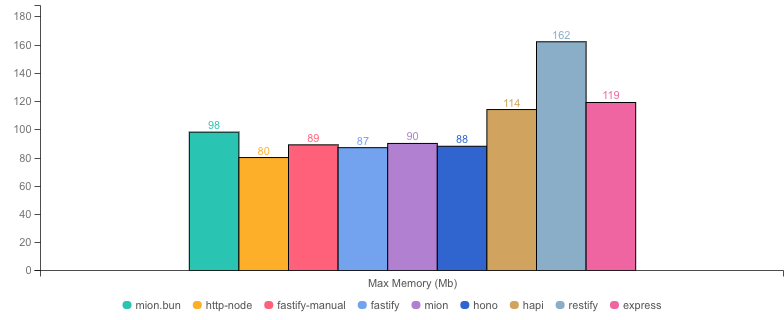
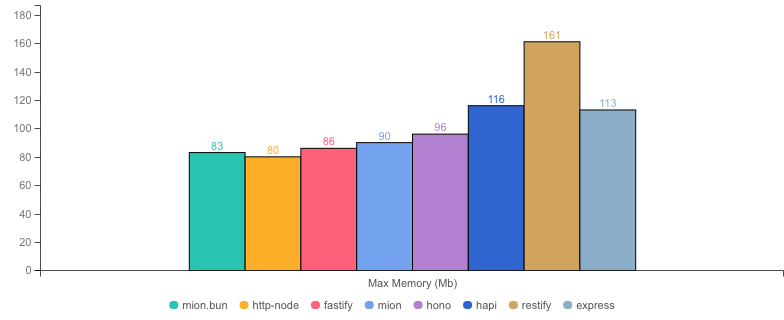
update to latest mion version

diff --git a/lib/packages.js b/lib/packages.js
@@ -70,13 +70,13 @@ const packages = {
     description:
       "Validation using schemas and ajv. schemas are generated manually",
   },
-  "fastify-manual": {
-    hasRouter: true,
-    package: "fastify",
-    validation: "-",
-    version: "3.12.6",
-    description: "manually validated parameters",
-  },
+  // "fastify-manual": {
+  //   hasRouter: true,
+  //   package: "fastify",
+  //   validation: "-",
+  //   version: "3.12.6",
+  //   description: "manually validated parameters",
+  // },
   hapi: {
     hasRouter: true,
     package: "@hapi/hapi",

diff --git a/apps/src/mionAppNode.ts b/apps/src/mionAppNode.ts
@@ -14,10 +14,10 @@ export type Shared = typeof SharedArrayBuffer;
 
 export const mionSayHelloRoute = route((): string => "world");
 
-export const updateUser: Route = route((context, user: User): User => {
+export const updateUser = route((context, user: User): User => {
   user.lastUpdate.setMonth(user.lastUpdate.getMonth() + 1);
   return user;
-});
+}) satisfies Route;
 
 export const routes = {
   hello: mionSayHelloRoute,

diff --git a/README.md b/README.md
@@ -91,8 +91,8 @@ Our goal is to perform similar to fastify as it is the industry standard in term
 
 * __Machine:__ darwin x64 | 8 vCPUs | 16.0GB Mem
 * __Node:__ `v20.11.0`
-* __Run:__ Sun Jan 28 2024 21:52:29 GMT+0000 (Greenwich Mean Time)
-* __Method:__ `autocannon -c 100 -d 40.02 -p 10 localhost:3000` (two rounds; one to warm-up, one to measure)
+* __Run:__ Mon Jan 29 2024 01:48:11 GMT+0000 (Greenwich Mean Time)
+* __Method:__ `autocannon -c 100 -d 40.01 -p 10 localhost:3000` (two rounds; one to warm-up, one to measure)
 
 #### Req (R/s) 
 
@@ -124,14 +124,13 @@ Our goal is to perform similar to fastify as it is the industry standard in term
 
 
 
-|                | Version   | Router | Req (R/s)   | Latency (ms) | Output (Mb/s) | Max Memory (Mb) | Max Cpu (%) | Validation | Description                                                                         |
-| :--            | --:       | --:    | :-:         | --:          | --:           | --:             | --:         | :-:        | :--                                                                                 |
-| http-node      | 16.18.0   | ✗      | 17608.7     | 56.26        | 4.23          | 78              | 120         | ✗          | bare node http server, should be the theoretical upper limit in node.js performance |
-| mion.bun       | 0.6.2     | ✓      | 17162.4     | 57.74        | 3.98          | 123             | 108         | ✓          | mion using bun, automatic validation and serialization                              |
-| fastify        | 4.10.2    | ✓      | 17123.3     | 57.86        | 4.13          | 86              | 119         | -          | Validation using schemas and ajv. schemas are generated manually                    |
-| fastify-manual | 3.12.6    | ✓      | 16168.4     | 61.36        | 3.90          | 86              | 122         | -          | manually validated parameters                                                       |
-| **mion**       | **0.6.2** | **✓**  | **14101.0** | **70.38**    | **3.90**      | **148**         | **142**     | **✓**      | **Automatic validation and serialization out of the box**                           |
-| restify        | 11.1.0    | ✓      | 12669.2     | 78.36        | 3.25          | 131             | 123         | ✗          | manual validation or third party tools                                              |
-| hapi           | 21.3.2    | ✓      | 8794.5      | 113.07       | 2.11          | 104             | 130         | ✗          | validation using joi or third party tools                                           |
-| hono           | 3.12.6    | ✓      | 5820.6      | 170.96       | 1.40          | 125             | 135         | ✗          | hono node server, manual validation or third party tools                            |
-| express        | 4.18.2    | ✓      | 4592.4      | 213.45       | 1.10          | 121             | 128         | ✗          | manual validation or third party tools                                              |
+|           | Version   | Router | Req (R/s)   | Latency (ms) | Output (Mb/s) | Max Memory (Mb) | Max Cpu (%) | Validation | Description                                                                         |
+| :--       | --:       | --:    | :-:         | --:          | --:           | --:             | --:         | :-:        | :--                                                                                 |
+| http-node | 16.18.0   | ✗      | 18296.3     | 54.13        | 4.40          | 80              | 123         | ✗          | bare node http server, should be the theoretical upper limit in node.js performance |
+| mion.bun  | 0.6.2     | ✓      | 17217.6     | 57.55        | 3.99          | 111             | 108         | ✓          | mion using bun, automatic validation and serialization                              |
+| fastify   | 4.10.2    | ✓      | 16735.5     | 59.22        | 4.04          | 87              | 120         | -          | Validation using schemas and ajv. schemas are generated manually                    |
+| **mion**  | **0.6.2** | **✓**  | **13797.0** | **71.92**    | **3.82**      | **142**         | **145**     | **✓**      | **Automatic validation and serialization out of the box**                           |
+| restify   | 11.1.0    | ✓      | 12960.0     | 76.61        | 3.32          | 129             | 121         | ✗          | manual validation or third party tools                                              |
+| hapi      | 21.3.2    | ✓      | 8815.5      | 112.79       | 2.12          | 96              | 131         | ✗          | validation using joi or third party tools                                           |
+| hono      | 3.12.6    | ✓      | 5609.3      | 177.43       | 1.35          | 127             | 136         | ✗          | hono node server, manual validation or third party tools                            |
+| express   | 4.18.2    | ✓      | 4563.9      | 214.79       | 1.10          | 127             | 126         | ✗          | manual validation or third party tools                                              |

diff --git a/HELLO-WORLD.md b/HELLO-WORLD.md
@@ -39,8 +39,8 @@ app.get("/hello", function (req, res) {
 
 * __Machine:__ darwin x64 | 8 vCPUs | 16.0GB Mem
 * __Node:__ `v20.11.0`
-* __Run:__ Sun Jan 28 2024 22:01:54 GMT+0000 (Greenwich Mean Time)
-* __Method:__ `autocannon -c 100 -d 40.21 -p 10 localhost:3000` (two rounds; one to warm-up, one to measure)
+* __Run:__ Mon Jan 29 2024 01:56:33 GMT+0000 (Greenwich Mean Time)
+* __Method:__ `autocannon -c 100 -d 40.06 -p 10 localhost:3000` (two rounds; one to warm-up, one to measure)
 
 #### Req (R/s) 
 
@@ -72,14 +72,13 @@ app.get("/hello", function (req, res) {
 
 
 
-|                | Version   | Router | Req (R/s)   | Latency (ms) | Output (Mb/s) | Max Memory (Mb) | Max Cpu (%) | Validation | Description                                                                         |
-| :--            | --:       | --:    | :-:         | --:          | --:           | --:             | --:         | :-:        | :--                                                                                 |
-| mion.bun       | 0.6.2     | ✓      | 63665.6     | 15.29        | 9.90          | 98              | 106         | ✓          | mion using bun, automatic validation and serialization                              |
-| http-node      | 16.18.0   | ✗      | 39516.0     | 24.81        | 7.05          | 80              | 126         | ✗          | bare node http server, should be the theoretical upper limit in node.js performance |
-| fastify-manual | 3.12.6    | ✓      | 38339.2     | 25.58        | 6.87          | 89              | 121         | -          | manually validated parameters                                                       |
-| fastify        | 4.10.2    | ✓      | 37895.2     | 25.89        | 6.79          | 87              | 122         | -          | Validation using schemas and ajv. schemas are generated manually                    |
-| **mion**       | **0.6.2** | **✓**  | **33498.2** | **29.35**    | **6.71**      | **90**          | **127**     | **✓**      | **Automatic validation and serialization out of the box**                           |
-| hono           | 3.12.6    | ✓      | 28188.0     | 34.97        | 5.03          | 88              | 122         | ✗          | hono node server, manual validation or third party tools                            |
-| hapi           | 21.3.2    | ✓      | 26153.2     | 37.73        | 4.66          | 114             | 129         | ✗          | validation using joi or third party tools                                           |
-| restify        | 11.1.0    | ✓      | 10154.8     | 97.95        | 2.51          | 162             | 139         | ✗          | manual validation or third party tools                                              |
-| express        | 4.18.2    | ✓      | 7799.7      | 127.53       | 1.39          | 119             | 124         | ✗          | manual validation or third party tools                                              |
+|           | Version   | Router | Req (R/s)   | Latency (ms) | Output (Mb/s) | Max Memory (Mb) | Max Cpu (%) | Validation | Description                                                                         |
+| :--       | --:       | --:    | :-:         | --:          | --:           | --:             | --:         | :-:        | :--                                                                                 |
+| mion.bun  | 0.6.2     | ✓      | 61463.2     | 15.79        | 9.55          | 83              | 106         | ✓          | mion using bun, automatic validation and serialization                              |
+| http-node | 16.18.0   | ✗      | 39839.2     | 24.60        | 7.10          | 80              | 125         | ✗          | bare node http server, should be the theoretical upper limit in node.js performance |
+| fastify   | 4.10.2    | ✓      | 39560.0     | 24.78        | 7.09          | 86              | 121         | -          | Validation using schemas and ajv. schemas are generated manually                    |
+| **mion**  | **0.6.2** | **✓**  | **33033.0** | **29.77**    | **6.62**      | **90**          | **128**     | **✓**      | **Automatic validation and serialization out of the box**                           |
+| hono      | 3.12.6    | ✓      | 28300.4     | 34.83        | 5.05          | 96              | 123         | ✗          | hono node server, manual validation or third party tools                            |
+| hapi      | 21.3.2    | ✓      | 26826.0     | 36.77        | 4.78          | 116             | 129         | ✗          | validation using joi or third party tools                                           |
+| restify   | 11.1.0    | ✓      | 10422.3     | 95.49        | 2.57          | 161             | 143         | ✗          | manual validation or third party tools                                              |
+| express   | 4.18.2    | ✓      | 8142.6      | 122.16       | 1.45          | 113             | 125         | ✗          | manual validation or third party tools                                              |

diff --git a/COLD-STARTS.md b/COLD-STARTS.md
@@ -11,33 +11,32 @@ These metrics are also indicative of how well the [serverless version](https://g
 We are comparing mion against fastify as we consider it to be the gold standard in node frameworks and against deepkit as we use some of their libraries and has similar functionalities (validation and serialization).
 
 ## Benchmark Results
-* __Machine:__ darwin x64 | 8 vCPUs | 16.0GB Mem
-* __Node:__ `v20.11.0`
-* __Run:__ Sun Jan 28 2024 22:27:57 GMT+0000 (Greenwich Mean Time)
-* __Method:__ `npm run metrics` (samples: 5)
-* __startup:__ time elapsed to setup the application
-* __listen:__ time elapsed until the http server is ready to accept requests (cold start)
 
-### Cold starts:  listen time (ms) lower is better 
+- **Machine:** darwin x64 | 8 vCPUs | 16.0GB Mem
+- **Node:** `v20.11.0`
+- **Run:** Mon Jan 29 2024 01:57:53 GMT+0000 (Greenwich Mean Time)
+- **Method:** `npm run metrics` (samples: 5)
+- **startup:** time elapsed to setup the application
+- **listen:** time elapsed until the http server is ready to accept requests (cold start)
+
+### Cold starts: listen time (ms) lower is better
 
 ![benchmarks](assets/public/charts/cold-starts.png)
 
-
-
-  | | startup(ms) | listen(ms) |
-  |-| -           | -          |
-| 10-startup-fastify-routes.js | 133 | 199 |
-| 10-startup-mion-routes.js | 118 | 123 |
-| 100-startup-fastify-routes.js | 143 | 292 |
-| 100-startup-mion-routes.js | 119 | 125 |
-| 500-startup-fastify-routes.js | 217 | 687 |
-| 500-startup-mion-routes.js | 119 | 127 |
-| 1000-startup-fastify-routes.js | 313 | 1186 |
-| 1000-startup-mion-routes.js | 119 | 132 |
-| 2000-startup-fastify-routes.js | 564 | 2188 |
-| 2000-startup-mion-routes.js | 119 | 141 |
-| 3000-startup-fastify-routes.js | 798 | 3273 |
-| 3000-startup-mion-routes.js | 120 | 147 |
-| 5000-startup-fastify-routes.js | 2255 | 6619 |
-| 5000-startup-mion-routes.js | 121 | 158 |
-| startup-listen.js | 119 | 123 |
+|                                | startup(ms) | listen(ms) |
+| ------------------------------ | ----------- | ---------- |
+| 10-startup-fastify-routes.js   | 135         | 201        |
+| 10-startup-mion-routes.js      | 83          | 88         |
+| 100-startup-fastify-routes.js  | 145         | 295        |
+| 100-startup-mion-routes.js     | 85          | 90         |
+| 500-startup-fastify-routes.js  | 214         | 695        |
+| 500-startup-mion-routes.js     | 85          | 94         |
+| 1000-startup-fastify-routes.js | 320         | 1202       |
+| 1000-startup-mion-routes.js    | 86          | 100        |
+| 2000-startup-fastify-routes.js | 539         | 2157       |
+| 2000-startup-mion-routes.js    | 86          | 110        |
+| 3000-startup-fastify-routes.js | 918         | 3414       |
+| 3000-startup-mion-routes.js    | 86          | 116        |
+| 5000-startup-fastify-routes.js | 1726        | 6004       |
+| 5000-startup-mion-routes.js    | 87          | 128        |
+| startup-listen.js              | 86          | 90         |
